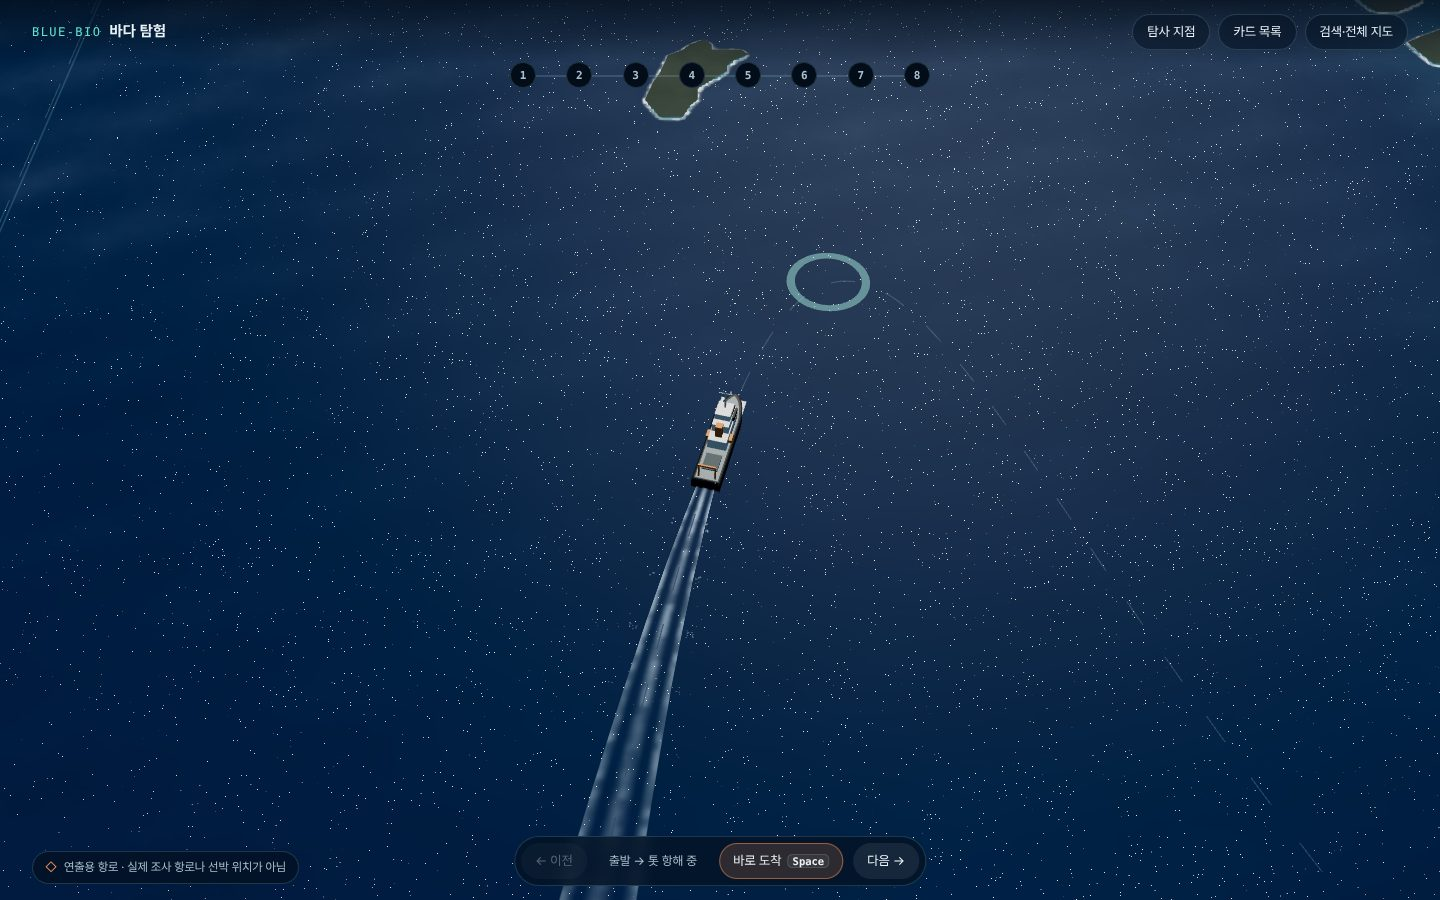
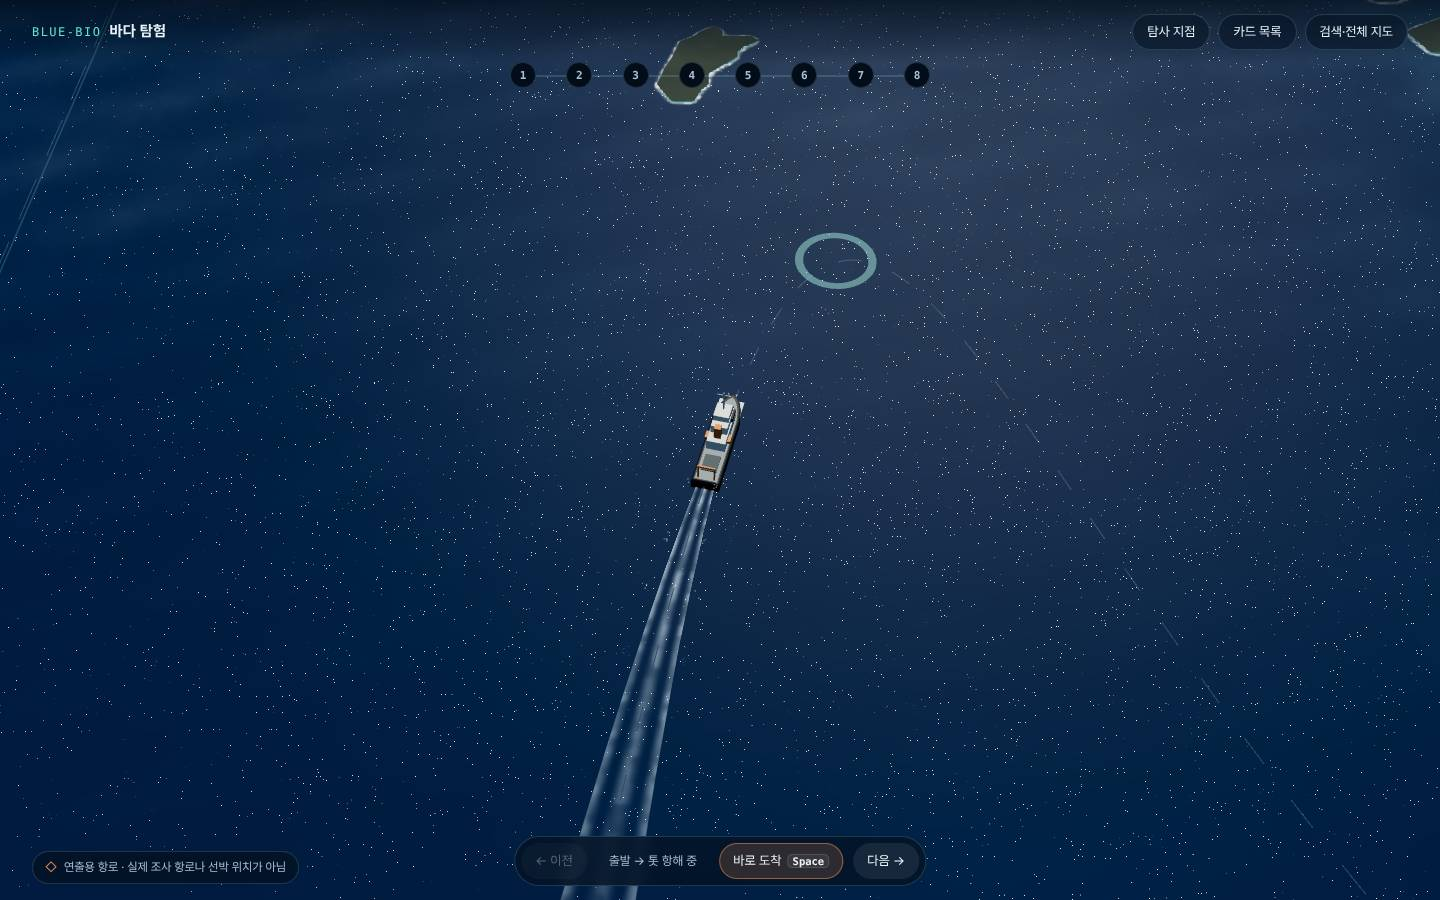
탐험 브라우저 검사: 항해 중 스크린샷은 20초 넘으면 건너뜀
Windows CI의 1440×900 SwiftShader에서 움직이는 바다 화면 캡처가 60초를 넘겨 검사 전체가
중단됐다. 항해 중 사진은 근거 자료일 뿐이라 시간 제한을 두고, 전진 검사는 사진이 늦어도
맞게 고쳤다.

Claude-Session: https://claude.ai/code/session_01Vqr5Sey4VQQ9TL9iosyfSP

diff --git a/docs/expedition/progress.md b/docs/expedition/progress.md
@@ -86,3 +86,4 @@
 - S5 검증: `test_expedition_ui.mjs`에 구간 시간·이징·재지정·바로 도착·`?sail=` 검사를 더하고 대기 시간을 `SAIL`에서 계산. `expedition_check.mjs` 65 PASS(새 9개), uicheck 기준선과 같음. 결과: `verification/2026-10-08-sailing/README.md`.
 - 남은 일: 실제 GPU에서 60 fps와 기본 8초의 체감 확인(팀장 PC).
 - 첫 CI(browser): 데스크톱·모바일에서 새 항해 검사 6건 실패. 원인은 Windows 러너가 시스템 애니메이션을 꺼 두어 Chrome이 `prefers-reduced-motion: reduce`로 보고한 것(배가 즉시 도착, '바로 도착' 숨김). 모션 감소를 강제한 로컬 실행에서 같은 3건이 그대로 재현됐다. `expedition_check.mjs`가 모션 감소가 아닌 환경에 `no-preference`를 명시하도록 고쳤다. 이전 CI는 이 때문에 데스크톱·모바일 항해 애니메이션을 사실상 검사하지 못하고 있었다. 느린 러너를 위해 항해 대기 상한을 `LONGEST×10`초로 넓혔다(통과하는 실행은 기다리지 않음).
+- 두 번째 CI(browser): 모바일·모션 감소·WebGL 없음은 모두 통과, 데스크톱은 항해 중 1440×900 스크린샷이 60초 안에 안 찍혀(Windows 러너 SwiftShader) 중단. 항해 중 사진은 근거 자료일 뿐 검사가 아니므로 20초 넘으면 건너뛰게 하고(`sailShot`), 전진 검사는 사진이 늦어 배가 먼저 도착해도 맞게(첫 표본은 구간 중간, 이후 감소 없음) 고쳤다. 지점 3으로 가는 중간 사진은 뺐다(바로 도착 검사 전에 배가 도착해 버릴 수 있어서).
